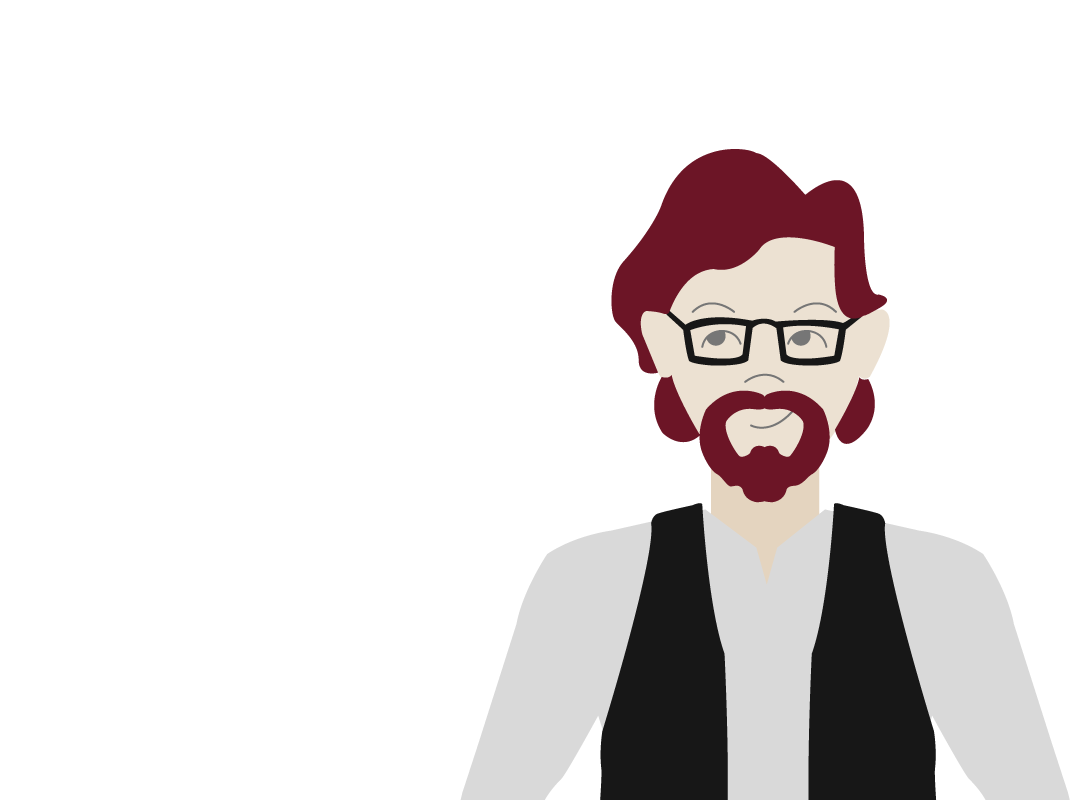
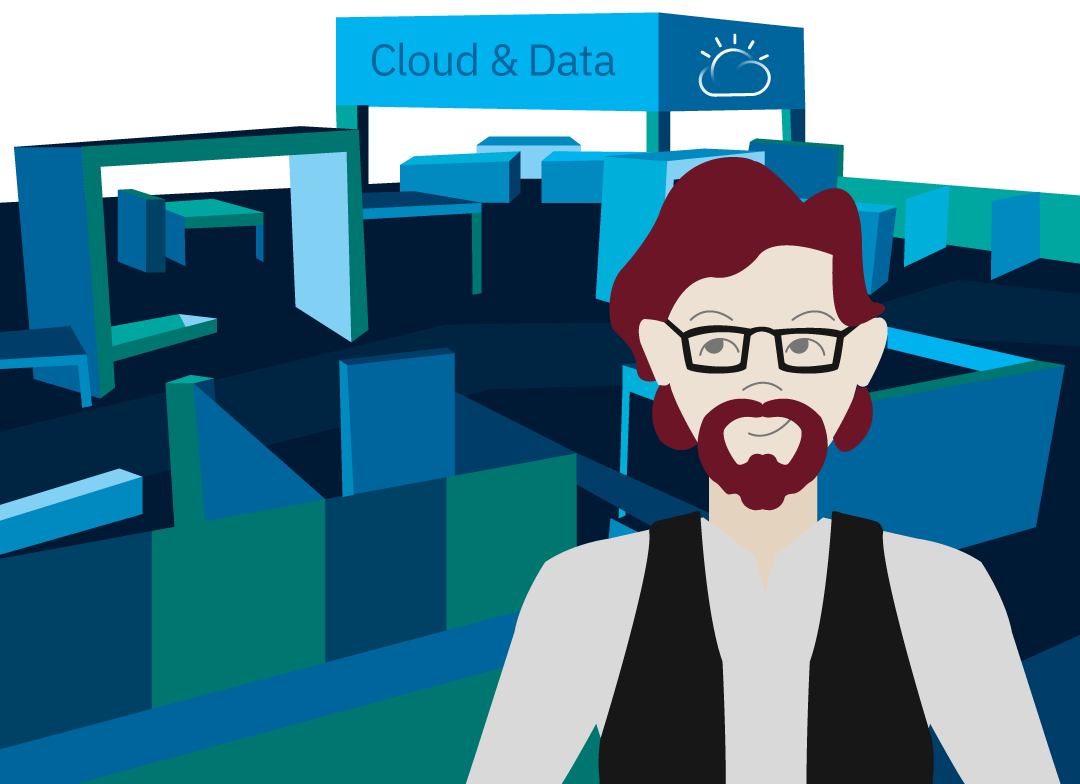
upd

diff --git a/visita.html b/visita.html
@@ -32,7 +32,7 @@
 		<a class="submitButton abajo texto-4" href="preguntas.html" role="button">¡Estoy list@, vengan esas preguntas!</a>
 </div>
 		</div>
-<div style="margin-bottom: -200px;"><img src="assets/stands.png" class="m-0 w-100" style="postion: absolute; left:0px;" /><img src="assets/devw01.png" class="w-100" style="postion: absolute; left:0px; margin-top:-475px; " /> </div>
+<div style="margin-bottom: -200px;"><img src="assets/devw01.png" class="m-0 w-100" style="postion: absolute; left:0px;" /></div>
     </main>
     <footer>
 <div id="footer"> </div>
